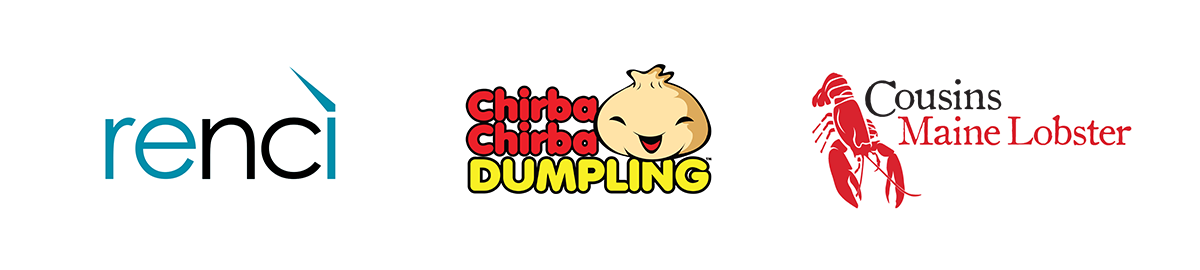
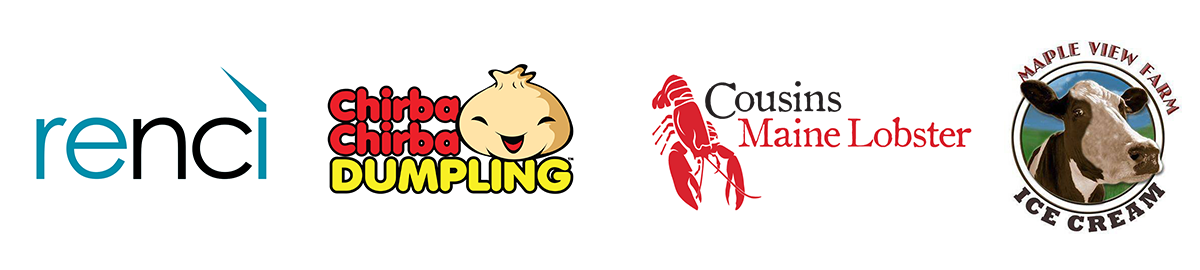
rodeo and taxi updates

Changed region(s): [[0.0308, 0.1481, 0.9867, 0.8593]]

diff --git a/content/pages/ugm2018/travel.html b/content/pages/ugm2018/travel.html
@@ -195,6 +195,23 @@
                 </ul>
                 <ul>
                     <li>
+                        <b>Flying in to RDU?</b><br>
+                        The best way to get from RDU to your hotel in downtown Durham is to take a taxi, Uber, Lyft, or RDU Super Shuttle.
+                    </li>
+                </ul>
+                <ul>
+                    <li>
+                        <b>Local and need to park downtown?</b><br>
+                        There is a public parking garage beside the convention center - the Durham Centre Deck (300 Morgan Street). You can also check out <a href="http://www.parkdurham.org/" target="_blank" class="light_font_link">Park Durham</a> for more information.
+                    </li>
+                </ul>
+                <ul>
+                    <li>
+                        Most hotels are in walking distance of the convention center. Check with hotel reception about shuttle service if you would rather ride than walk. 
+                    </li>
+                </ul>
+                <ul>
+                    <li>
                         <a href="https://www.durham-nc.com/maps-info/transportation/" target="_blank" class="light_font_link">Transportation and Travel Services</a>
                     </li>
                 </ul>
@@ -215,7 +232,7 @@
                 Review your visa status and what may be necessary for you to travel to the U.S. well in advance of the conference.
                 </p>
                 <p>
-                If you need information from the iRODS Consortium to complete your paperwork, email <a href="mailto:ugmregistration@irods.org">ugmregistration@irods.org</a>.
+                If you need information from the iRODS Consortium to complete your paperwork, email <a href="mailto:ugmregistration@irods.org" class="light_font_link">ugmregistration@irods.org</a>.
                 </p>
             </div>
             <div class="space phone_hide"></div>

diff --git a/content/pages/ugm2018/agenda.html b/content/pages/ugm2018/agenda.html
@@ -43,9 +43,9 @@
 Tuesday, June 5 | 5:00 p.m. - 7:30 p.m.<br/>
 Durham Convention Center | 301 W. Morgan Street, Durham, NC
 <br/><br/>
-Whether you've wrapped up your day of iRODS training or have just arrived in town for UGM on Wednesday and Thursday, please join us outside the Durham Convention Center for food and fun! 
+Whether you've wrapped up your day of iRODS training or have just arrived in town for UGM, please join us outside the Durham Convention Center for food and fun. If you are local or you brought your family on the trip, we would love for you to bring them along also!
 <br/><br/>
-<a href="http://www.chirbachirba.com/menu/">Chirba Chirba</a> and <a href="https://www.cousinsmainelobster.com/menu/?location=raleigh_nc&type=truck">Cousins Maine Lobster</a> will be providing their full menu for our enjoyment, and there will be corn hole, a life-size chess set, and music. Special thanks to <a href="http://renci.org">RENCI</a> for sponsoring this event!
+<a href="http://www.chirbachirba.com/menu/">Chirba Chirba</a> and <a href="https://www.cousinsmainelobster.com/menu/?location=raleigh_nc&type=truck">Cousins Maine Lobster</a> will be providing their full menu for our enjoyment, <a href="http://mapleviewfarm.com/">Maple View Farm</a> will provide the ice cream, and there will be corn hole, a life-size chess set, and music. Special thanks to <a href="http://renci.org">RENCI</a> for sponsoring this event!
 <br/><br/>
 Be sure to wear your UGM event bracelet to help vendors provide you with prompt service.
                         <br/><br/>
